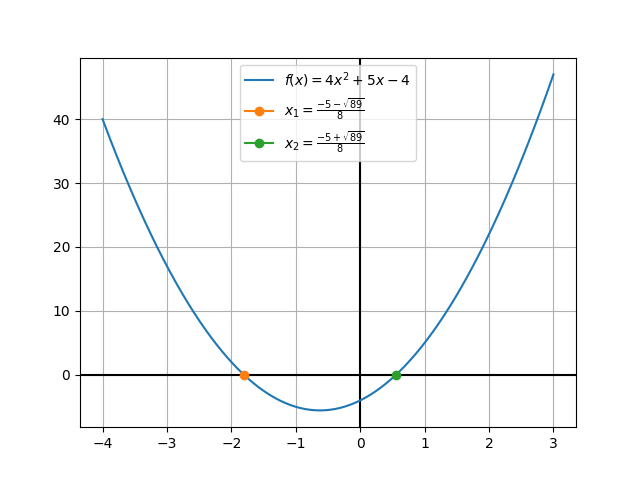
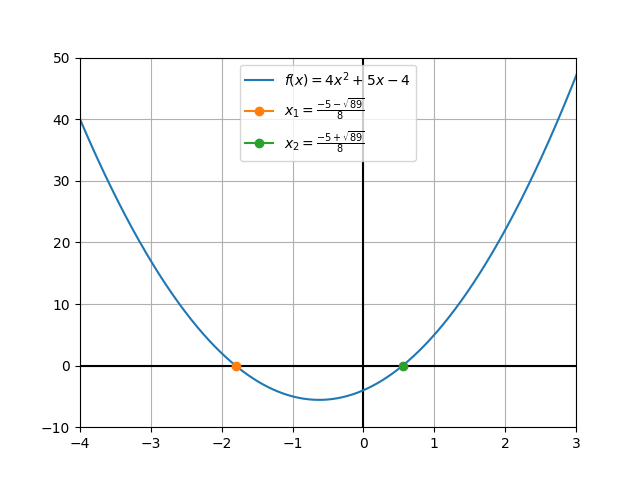
Update

diff --git a/index.html b/index.html
@@ -527,7 +527,7 @@
 
 			<h3>Équations du second degré</h3>
 			<p>Une équation du second degré est de la forme \( ax^2 + bx + c = 0 \), où \( a \), \( b \), et \( c \) sont des constantes. Quand nous nous retrouvons face à ce genre d'équation, nous cherchons en général à trouver les racines de ce polynôme. Le polynôme étant de degré 2 (car la plus grande puissance que nous avons est 2), nous avons deux solutions possibles: \( x_{+} \) et \( x_{-} \) (ou \( x_{1} \) et \( x_{2} \)). Voici donc comment trouver ces solutions.</p>
-			<p>La méthode principalement utilisée consiste à utiliser le discriminant: \( \Delta = b^{2} - 4ac \). En fonction du signe de ce discriminant, nous avons 3 suites possibles. La première est deux solutions réelles, la deuxième est 2 solutions réelles confondues (ou de multiplicité 2) et la dernière est 2 solutions complexes.</p>
+			<p>La méthode principalement utilisée consiste à utiliser le discriminant: \( \Delta = b^{2} - 4ac \). En fonction du signe de ce discriminant, nous avons 3 suites possibles. La première est deux solutions réelles, la deuxième est 2 solutions réelles confondues (ou de multiplicité 2) et la dernière est 2 solutions complexes conjuguées.</p>
 			<ol>
 				<li>
 					si \( \Delta > 0 \), nous avons donc 2 solutions réelles:
@@ -585,6 +585,25 @@
 			<div style="display: flex; justify-content: center;">
 				<img src="Images/resolutionEquationSecondDegre.png"/>
 			</div>
+
+			<h3>Équations contenant une exponentielle</h3>
+			<p>Une équation contenant une exponentielle est de la forme \( ae^{bx} + c = d \), où \( a \), \( b \), \( c \) et \( d \) sont des constantes. Pour retrouver la solution à une équation de ce type, il faut juste retenir que la fonction réciproque de l'exponentielle est la fonction \( ln(x) \). Ceci signifie que \( e^{ln(x)} = x \). Ceci signifie que l'une est symétrique de l'autre par rapport à la fonction \( y = x \), comme illustré ci-dessous:</p>
+			<div style="display: flex; justify-content: center;">
+				<img src="Images/reciproqueLogExp.png"/>
+			</div>
+
+			<p>Donc comme illustré ci-dessus, pour résoudre une équation contenant une exponentielle (et on le verra pour les équations contenant un logarithme), l'objectif sera au maximum d'isoler l'exponentielle et d'appliquer un logarithme à l'expression. Prenons par exemple le cas de l'équation \( 3e^{5x} + 2 = 7 \):</p>
+			<p>\[ \begin{equation*}
+					\begin{split}
+						3e^{5x} + 2 & = 7\\
+						3e^{5x} & = 5\\
+						e^{5x} & = \frac{5}{3}\\
+						ln(e^{5x}) & = ln(\frac{5}{3})\\
+						5x & = ln(\frac{5}{3})\\
+						x & = \frac{1}{5}ln(\frac{5}{3})
+					\end{split}
+				\end{equation*} \]
+			</p>
 
 			<!-- Ajouter d'autres types d'équations ici, comme les équations exponentielles, logarithmiques, etc. -->
 		</div>

diff --git a/python/entrainementEquations.py b/python/entrainementEquations.py
@@ -1,0 +1,127 @@
+import sympy as sp
+import random
+
+def generate_equation(choice):    
+    x = sp.Symbol('x')
+    
+    if choice == 1:
+        # Equation de type ax + b = 0
+        a = 0
+        while a == 0:
+            a = random.randint(-10, 10)
+        b = random.randint(-10, 10)
+        equation = a * x + b
+        solutions = sp.solve(equation, x)
+        
+    elif choice == 2:
+        # Equation de type ax^2 + bx + c = 0
+        a = 0
+        while a == 0:
+            a = random.randint(-10, 10)
+        b = random.randint(-10, 10)
+        c = random.randint(-10, 10)
+        equation = f"{a} * x**2 + {b} * x + {c}"
+        solutions = sp.solve(a * sp.Symbol('x')**2 + b * sp.Symbol('x') + c, sp.Symbol('x'))
+        
+    elif choice == 3:
+        # Equation de type a*exp(b*x) + c = 0
+        a = 0
+        b = 0
+        c = 0
+        while a == 0 or b == 0:
+            a = random.randint(-10, 10)
+            b = random.randint(-10, 10)
+            c = random.randint(-10, 10)
+            if a != 0:
+                while -c/a <= 0:
+                    a = random.randint(-10, 10)
+                    b = random.randint(-10, 10)
+                    c = random.randint(-10, 10)
+            else:
+                a = random.randint(-10, 10)
+                b = random.randint(-10, 10)
+                c = random.randint(-10, 10)
+        equation = f"{a}*exp({b}*x) + {c}"
+        solutions = sp.solve(a*sp.exp(b*sp.Symbol('x')) + c, sp.Symbol('x'), dict=False)
+        solutions = [sol.evalf() for sol in solutions if sol.is_real]
+        
+    elif choice == 4:
+        # Equation de type a*log(b*x) + c = 0
+        a = 0
+        b = 0
+        while a == 0 or b == 0:
+            a = random.randint(-10, 10)
+            b = random.randint(2, 10)  # b doit être > 1 pour éviter les logarithmes de nombre négatif ou nul
+        c = random.randint(-10, 10)
+        equation = f"{a}*log({b}*x) + {c}"
+        solutions = sp.solve(a*sp.log(b*sp.Symbol('x')) + c, sp.Symbol('x'), dict=False)
+        solutions = [sol.evalf() for sol in solutions if sol.is_real]
+        
+    elif choice == 5:
+        types = ['cos', 'sin', 'tan']
+        selected_type = random.choice(types)
+        a = 0
+        b = 0
+        while a == 0 or b == 0:
+            a = random.randint(-10, 10)
+            b = random.randint(-10, 10)
+        
+        if selected_type == "cos":
+            equation = f"{a}*cos({b}*x)"
+            solutions = sp.solveset(a*sp.cos(b*sp.Symbol('x')), sp.Symbol('x'))
+            solutions = [sol.evalf() for sol in solutions if sol.is_real]
+        elif selected_type == "sin":
+            equation = f"{a}*sin({b}*x)"
+            solutions = sp.solveset(a*sp.sin(b*sp.Symbol('x')), sp.Symbol('x'))
+            solutions = [sol.evalf() for sol in solutions if sol.is_real]
+        elif selected_type == "tan":
+            equation = f"{a}*tan({b}*x)"
+            solutions = sp.solveset(a*sp.tan(b*sp.Symbol('x')), sp.Symbol('x'))
+            solutions = [sol.evalf() for sol in solutions if sol.is_real]
+        
+    return sp.pretty(equation), solutions
+
+def main():
+    print("Bienvenue dans le solveur d'équations!")
+    
+    while True:
+        print("\nChoisissez le type d'équation (tapez le numéro correspondant) :")
+        print("1. Polynôme de degré 1")
+        print("2. Polynôme de degré 2")
+        print("3. Exponentielle")
+        print("4. Logarithme")
+        print("5. Trigonométrique")
+        print("6. Quitter")
+        
+        choice = input("Votre choix : ")
+        
+        if choice == '6':
+            print("Au revoir!")
+            break
+        
+        try:
+            choice = int(choice)
+            if choice < 1 or choice > 5:
+                print("Choix invalide. Veuillez choisir un numéro entre 1 et 5.")
+                continue
+        except ValueError:
+            print("Choix invalide. Veuillez entrer un numéro.")
+            continue
+        
+        equation, solutions = generate_equation(choice)
+        print(f"\nÉquation générée : {equation}")
+        
+        ready = input("Êtes-vous prêt à voir les solutions de cette équation ? (oui) : ")
+        
+        if ready.lower() == 'oui':
+            if solutions:
+                print("La/les solution(s) de l'équation sont :")
+                for solution in solutions:
+                    print(f"x = {solution}")
+            else:
+                print("L'équation n'a pas de solution dans l'ensemble des réels.")
+        else:
+            print("Opération annulée.")
+
+if __name__ == "__main__":
+    main()

diff --git a/Images/reciproqueLogExp.py b/Images/reciproqueLogExp.py
@@ -1,0 +1,27 @@
+import numpy as np
+import matplotlib.pyplot as plt
+
+def hello():
+	x1 = np.linspace(-10, 15, 1000)
+	x2 = np.linspace(0.00001, 15, 1000)
+	y1 = np.log(x2)
+	y2 = np.exp(x1)
+	y3 = x1
+
+	plt.figure()
+	plt.axhline(color = 'k')
+	plt.axvline(color='k')
+	plt.plot(x1, y2, label=r"$ f(x) = log(x) $")
+	plt.plot(x2, y1, label=r"$ f(2) = e^{x} $")
+	plt.plot(x1, y3, label=r"$ f(x) = x $")
+	plt.grid(True)
+	plt.legend()
+	plt.axis('equal')
+	plt.xlim(0, 5)
+	plt.ylim(-3, 10)
+	plt.savefig("reciproqueLogExp.png")
+	plt.show()
+
+
+if __name__ == "__main__":
+	hello()

diff --git a/Images/resolutionEquationSecondDegre.py b/Images/resolutionEquationSecondDegre.py
@@ -2,7 +2,7 @@ import numpy as np
 import matplotlib.pyplot as plt
 
 def hello():
-	x = np.linspace(-4, 3, 1000)
+	x = np.linspace(-5, 5, 1000)
 	y = 4*x**2 + 5*x - 4
 
 	plt.figure()
@@ -13,6 +13,8 @@ def hello():
 	plt.plot([(-5 + np.sqrt(89))/8], [0], marker="o", label=r"$ x_{2} = \frac{-5 + \sqrt{89}}{8} $")
 	plt.grid(True)
 	plt.legend()
+	plt.xlim(-4, 3)
+	plt.ylim(-10, 50)
 	plt.savefig("resolutionEquationSecondDegre.png")
 	plt.show()
 
